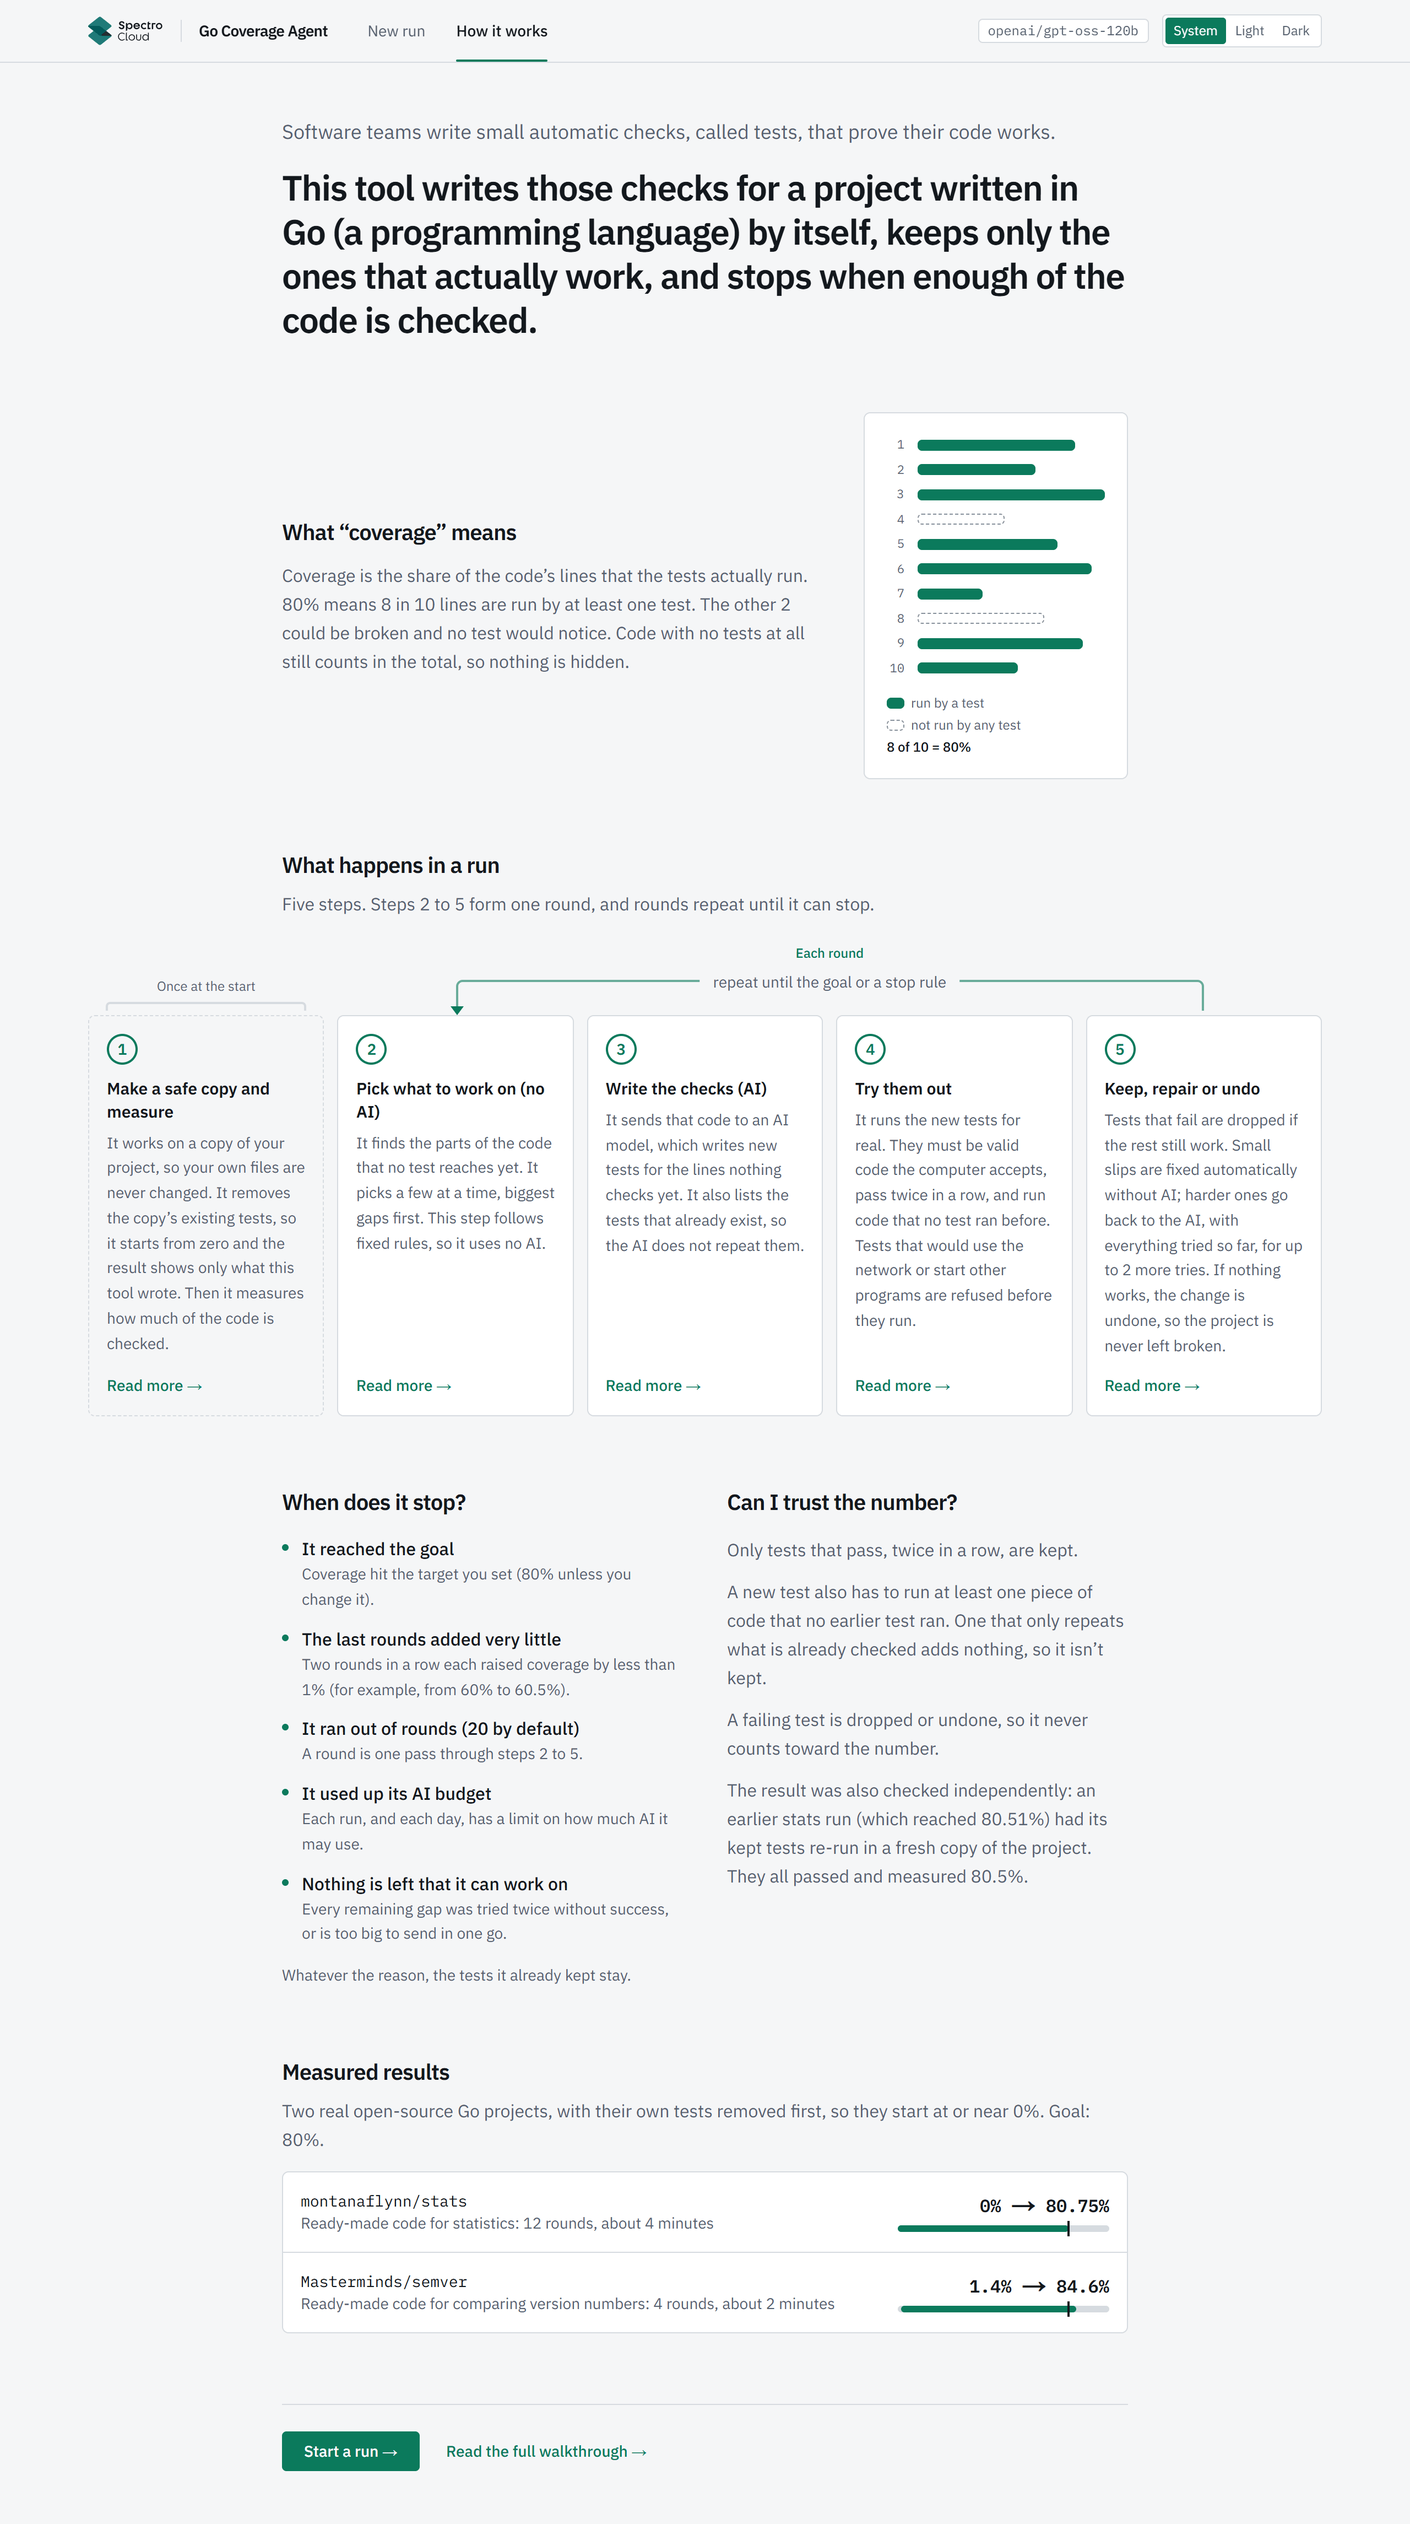
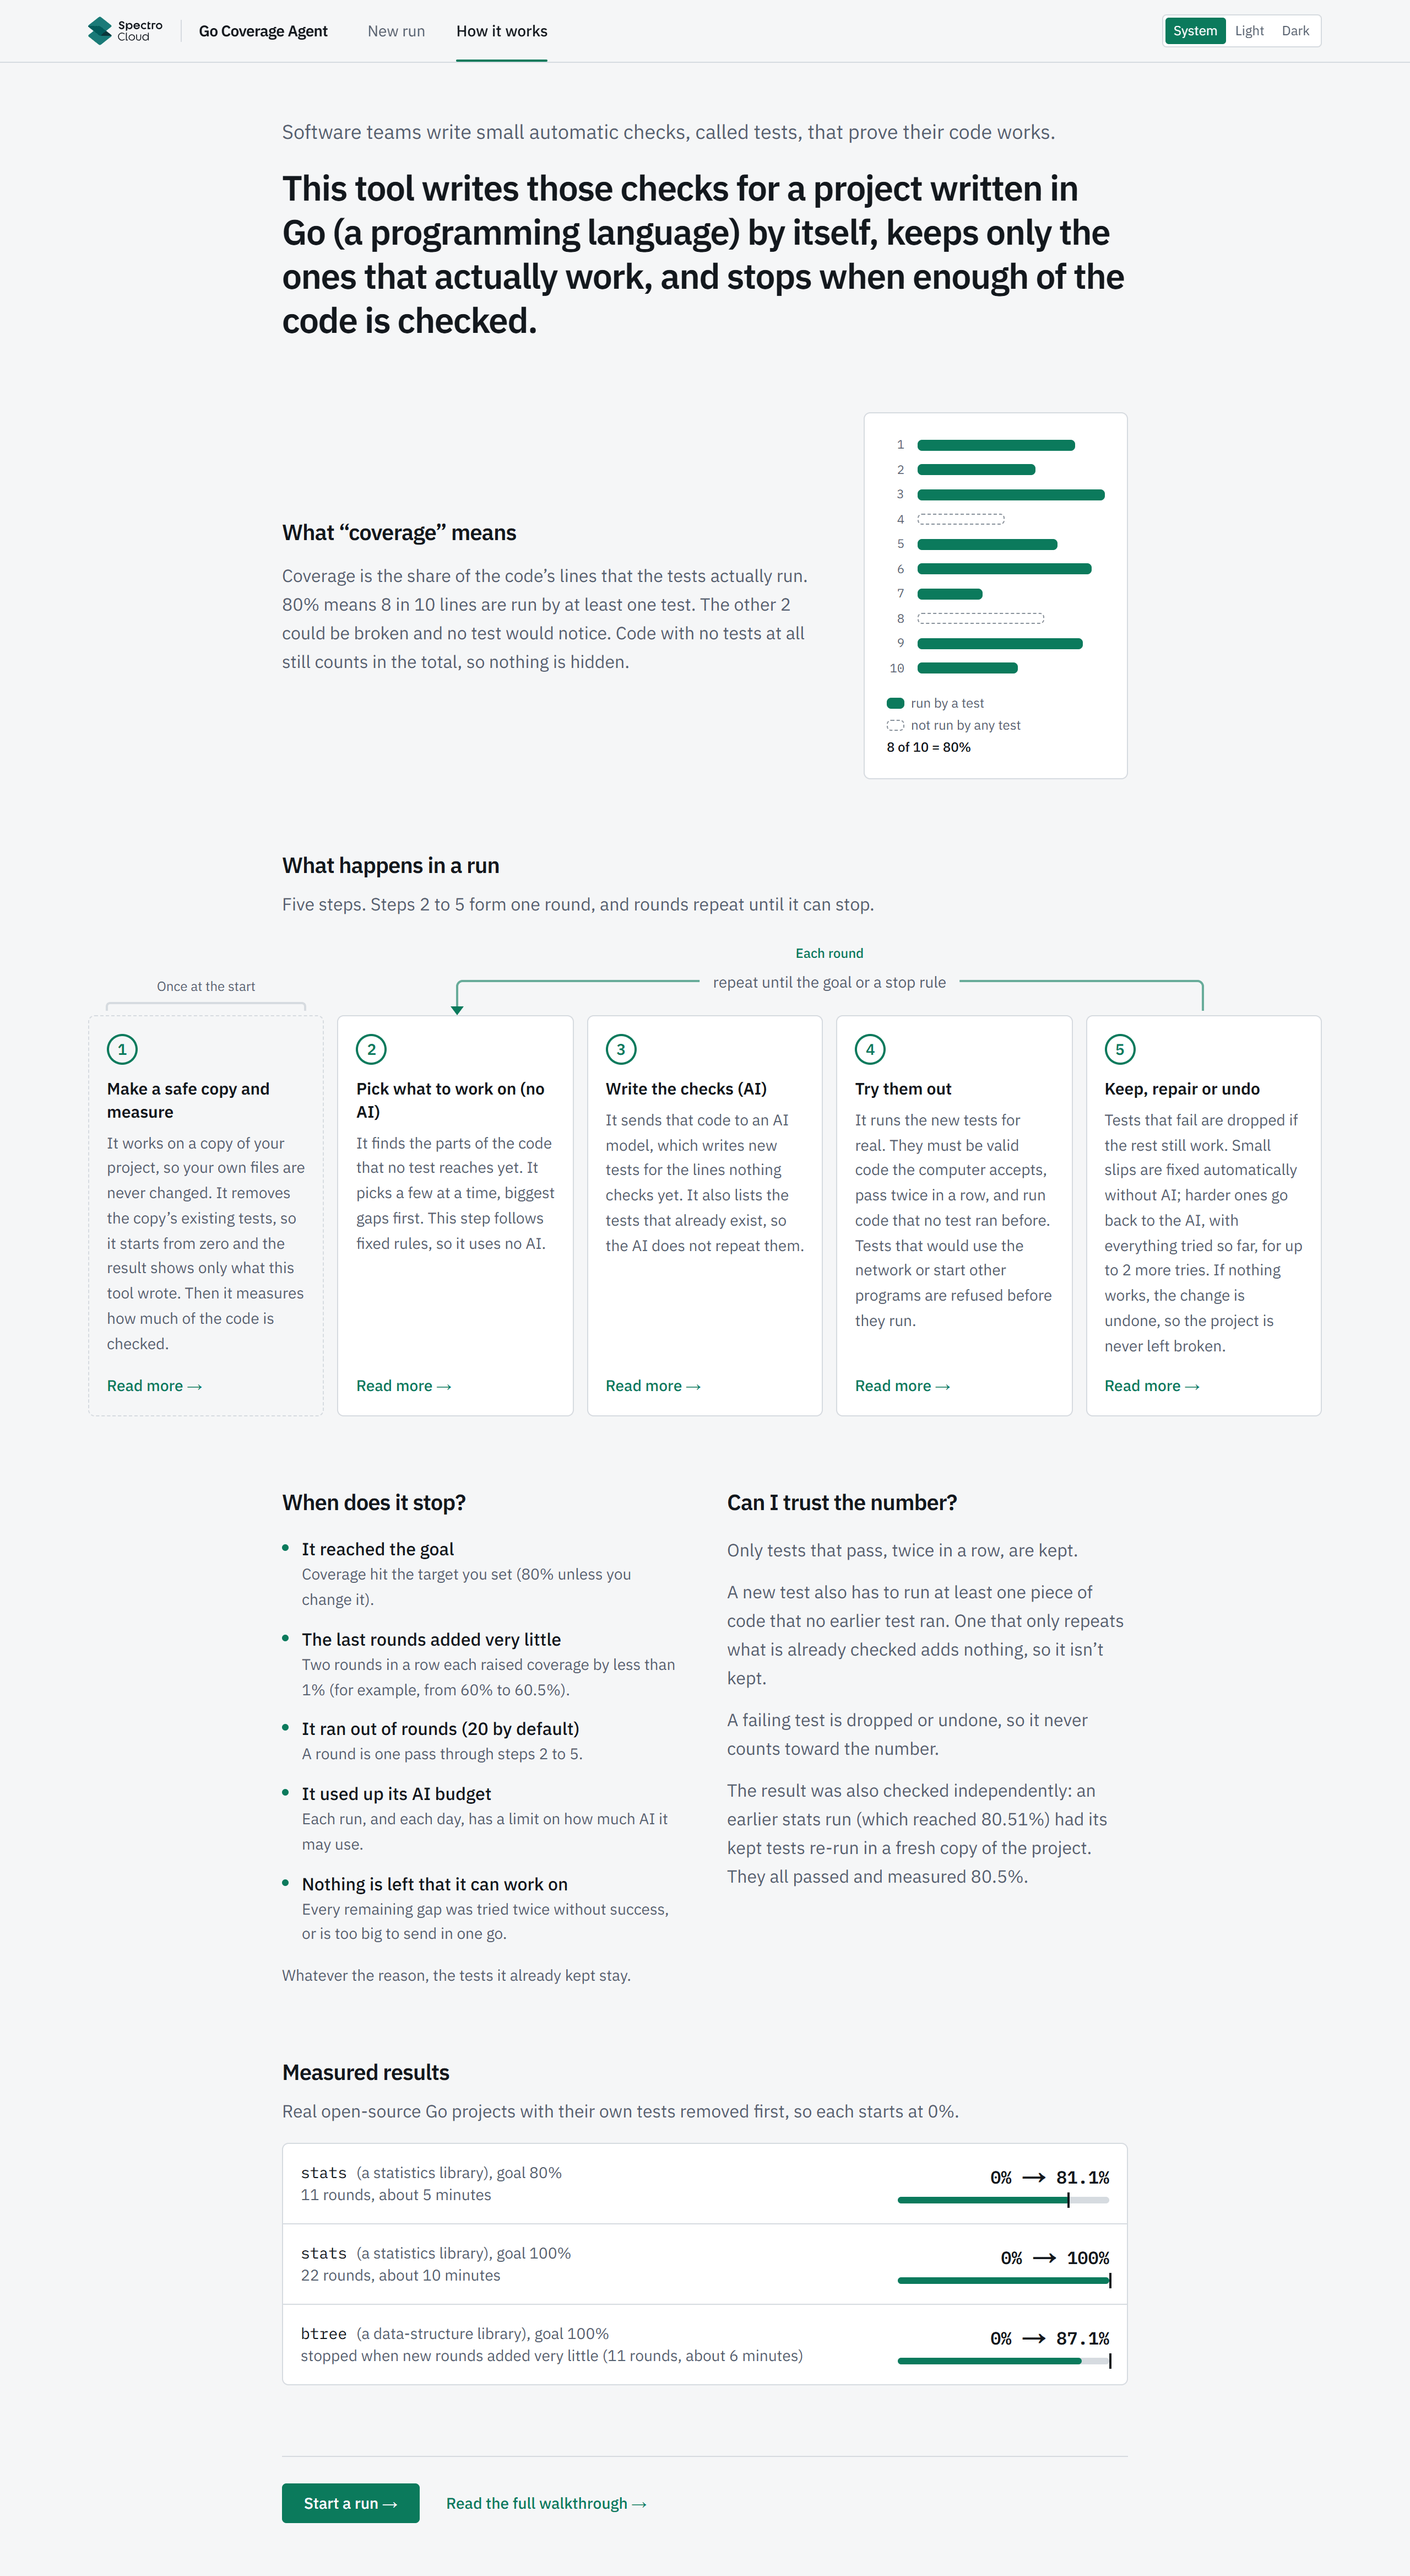
feat(frontend): measured results use runs that started at 0%
How it works and Walkthrough now show stats (goal 80% and 100%) and btree,
all from 0%; the semver 1.4% baseline (init() statements) is explained.
Screenshots and README updated.

diff --git a/frontend/src/app/walkthrough/page.tsx b/frontend/src/app/walkthrough/page.tsx
@@ -186,9 +186,10 @@ const STOP_RULES = [
 ];
 
 const MEASURED = [
-  { repo: "montanaflynn/stats", job: "26598ee5c57b", cov: "0.0% → 80.75%", rounds: 12, time: "248 s", tokens: "182,494", kept: "34 / 1" },
-  { repo: "montanaflynn/stats", job: "89eb53b5907e", cov: "0.0% → 80.51%", rounds: 15, time: "287 s", tokens: "184,926", kept: "41 / 4" },
-  { repo: "Masterminds/semver", job: "736baa413b5d", cov: "1.4% → 84.6%", rounds: 4, time: "114 s", tokens: "82,606", kept: "8 / 0" },
+  { repo: "montanaflynn/stats, goal 80%", job: "e2de1ca387cb", cov: "0.0% → 81.07%", rounds: 11, time: "310 s", tokens: "175,023", kept: "31 / 0" },
+  { repo: "montanaflynn/stats, goal 100%", job: "0e1f8bf7442a", cov: "0.0% → 100.0%", rounds: 22, time: "612 s", tokens: "403,322", kept: "64 / 1" },
+  { repo: "google/btree, goal 100%", job: "80a576a4d3ad", cov: "0.0% → 87.09%", rounds: 11, time: "350 s", tokens: "306,562", kept: "6 / 5" },
+  { repo: "montanaflynn/stats, goal 80%", job: "89eb53b5907e", cov: "0.0% → 80.51%", rounds: 15, time: "287 s", tokens: "184,926", kept: "41 / 4" },
 ];
 
 const GLOSSARY: { term: string; def: ReactNode }[] = [
@@ -381,7 +382,7 @@ gohelper symbols .  → [{"name": "EmptyInputErr", "kind": "var", "file": "error
 {"seq": 8, "type": "candidate_accepted",  "data": {"index": 1, "file": "load.go", "test_file": "load_test.go",
                                                   "tests": ["TestLoadRawData"], "percent": 3.69, "gain": 3.69}}`}</Pre>
           <H3>Measured results</H3>
-          <p>Developer-plan Groq key, target 80%, default options, each project’s own tests deleted first.</p>
+          <p>Developer-plan Groq key, default options, each project’s own tests deleted first, so every run starts at 0.0%. The goal is in the first column. The btree run stopped with <C>marginal_gains</C>: the last 2 rounds each added less than 0.5 percentage points. The last row is the run whose tests were re-checked below.</p>
           <div className="overflow-x-auto">
             <table className="w-full min-w-[34rem] text-left text-sm">
               <thead className="text-xs text-muted">
@@ -409,6 +410,7 @@ gohelper symbols .  → [{"name": "EmptyInputErr", "kind": "var", "file": "error
             </table>
           </div>
           <p>The tests from run 89eb53b5907e were copied into a fresh clone of stats with its tests deleted; <C>go vet</C> was clean, every test passed, and plain Go measured 80.5%. An earlier run on a free-trial key (8K tokens per minute) reached 69.0% in about 28 minutes, mostly waiting on rate limits.</p>
+          <p>Why the semver sample starts at 1.4% and not 0%: a package’s <C>init()</C> functions run when the package loads, so their statements (version.go:83 and constraints.go:206) count as covered before any test exists. That is true and measured, not an error. For this reason the results above use runs that started at exactly 0%.</p>
           <Where code={["backend/app/engine/run.py", "frontend/src/app/jobs/[id]/page.tsx", "README.md"]} events={["job_completed"]} />
         </Section>
 

diff --git a/frontend/src/app/how-it-works/page.tsx b/frontend/src/app/how-it-works/page.tsx
@@ -45,8 +45,9 @@ const STOPS = [
 ];
 
 const RESULTS = [
-  { id: "stats", repo: "montanaflynn/stats", what: "Ready-made code for statistics", from: 0, to: 80.75, label: "0% → 80.75%", rounds: 12, time: "about 4 minutes" },
-  { id: "semver", repo: "Masterminds/semver", what: "Ready-made code for comparing version numbers", from: 1.43, to: 84.59, label: "1.4% → 84.6%", rounds: 4, time: "about 2 minutes" },
+  { id: "stats", name: "stats", what: "a statistics library", goal: 80, from: 0, to: 81.07, label: "0% → 81.1%", detail: "11 rounds, about 5 minutes" },
+  { id: "stats-100", name: "stats", what: "a statistics library", goal: 100, from: 0, to: 100, label: "0% → 100%", detail: "22 rounds, about 10 minutes" },
+  { id: "btree", name: "btree", what: "a data-structure library", goal: 100, from: 0, to: 87.09, label: "0% → 87.1%", detail: "stopped when new rounds added very little (11 rounds, about 6 minutes)" },
 ];
 
 // Ten "lines of code", eight of them run by a test. Widths vary so it reads as code, not a progress bar.
@@ -201,20 +202,20 @@ export default function HowItWorksPage() {
       <section aria-labelledby="result-heading" className="space-y-4">
         <div className="space-y-2">
           <h2 id="result-heading" className={h2}>Measured results</h2>
-          <p className="leading-relaxed text-muted">Two real open-source Go projects, with their own tests removed first, so they start at or near 0%. Goal: 80%.</p>
+          <p className="leading-relaxed text-muted">Real open-source Go projects with their own tests removed first, so each starts at 0%.</p>
         </div>
         <ul className="divide-y divide-border rounded-md border border-border bg-surface">
           {RESULTS.map((r) => (
             <li key={r.id} data-testid={`result-${r.id}`} className="grid gap-x-6 gap-y-2 p-4 sm:grid-cols-[minmax(0,1fr)_12rem] sm:items-center">
               <div className="min-w-0">
-                <p className="font-mono text-sm">{r.repo}</p>
-                <p className="text-sm text-muted">{r.what}: {r.rounds} rounds, {r.time}</p>
+                <p className="font-mono text-sm">{r.name} <span className="font-sans text-muted">({r.what}), goal {r.goal}%</span></p>
+                <p className="text-sm text-muted">{r.detail}</p>
               </div>
               <div className="space-y-1.5">
                 <p className="font-mono font-semibold tabular-nums sm:text-right">{r.label}</p>
                 <div aria-hidden className="relative h-1.5 rounded-full bg-border">
                   <span className="absolute inset-y-0 rounded-full bg-accent" style={{ left: `${r.from}%`, width: `${r.to - r.from}%` }} />
-                  <span className="absolute -inset-y-1 left-[80%] w-0.5 bg-text" title="80% goal" />
+                  <span className="absolute -inset-y-1 w-0.5 bg-text" style={{ left: `${r.goal}%` }} title={`${r.goal}% goal`} />
                 </div>
               </div>
             </li>

diff --git a/frontend/src/app/how-it-works/page.test.tsx b/frontend/src/app/how-it-works/page.test.tsx
@@ -85,13 +85,19 @@ describe("HowItWorksPage", () => {
     expect(screen.getByText(/at least one piece of code that no earlier test ran/)).toBeInTheDocument();
     expect(screen.getByText(/re-run in a fresh copy of the project/)).toBeInTheDocument();
     const stats = screen.getByTestId("result-stats");
-    expect(stats).toHaveTextContent("0% → 80.75%");
-    expect(stats).toHaveTextContent("12 rounds");
-    expect(stats).toHaveTextContent("about 4 minutes");
-    const semver = screen.getByTestId("result-semver");
-    expect(semver).toHaveTextContent("1.4% → 84.6%");
-    expect(semver).toHaveTextContent("4 rounds");
-    expect(semver).toHaveTextContent("about 2 minutes");
+    expect(stats).toHaveTextContent("goal 80%");
+    expect(stats).toHaveTextContent("0% → 81.1%");
+    expect(stats).toHaveTextContent("11 rounds, about 5 minutes");
+    const stats100 = screen.getByTestId("result-stats-100");
+    expect(stats100).toHaveTextContent("goal 100%");
+    expect(stats100).toHaveTextContent("0% → 100%");
+    expect(stats100).toHaveTextContent("22 rounds, about 10 minutes");
+    const btree = screen.getByTestId("result-btree");
+    expect(btree).toHaveTextContent("0% → 87.1%");
+    expect(btree).toHaveTextContent("stopped when new rounds added very little");
+    expect(screen.getByText(/each starts at 0%/)).toBeInTheDocument();
+    expect(screen.queryByText(/at or near 0%/)).toBeNull();
+    expect(screen.queryByText(/semver/i)).toBeNull();
   });
 
   it("ends with Start a run and an internal link to the full walkthrough, and no external artifact link", () => {

diff --git a/frontend/src/app/walkthrough/page.test.tsx b/frontend/src/app/walkthrough/page.test.tsx
@@ -78,7 +78,7 @@ describe("WalkthroughPage", () => {
   it("shows the outputs, an event example, the coverage profile line and the safety notes", () => {
     render(<WalkthroughPage />);
     const results = section("results");
-    for (const t of ["./output/<job id>/", "events.jsonl", "report.json", "tests/", "candidate_accepted", "80.75%", "84.6%"]) {
+    for (const t of ["./output/<job id>/", "events.jsonl", "report.json", "tests/", "candidate_accepted", "81.07%", "100.0%", "87.09%", "e2de1ca387cb", "0e1f8bf7442a", "80a576a4d3ad", "init()", "1.4%"]) {
       expect(results).toHaveTextContent(t);
     }
     const coverage = section("coverage");

diff --git a/README.md b/README.md
@@ -128,6 +128,8 @@ Developer-plan key, 2026-10-09, target 80%, defaults. Writer at `medium` reasoni
 | `736baa413b5d` | after the Fixer-history fixes, Fixer `medium` | 1.4% → **84.6%**, target reached | 4 / 114 s | 8 / 0 | 82.6K |
 | `d247037efdb2` | same, Fixer `low` | 1.4% → **84.4%**, target reached | 3 / 88 s | 7 / 0 | 69.2K |
 
+The 1.4% baseline is not an error: semver's two `init()` functions (`version.go:83`, `constraints.go:206`) run when the package loads, so their statements count as covered before any test exists. The "How it works" and Walkthrough pages therefore report runs that started at exactly 0%.
+
 Each of the last two runs needed only one LLM fix, and both fixes were accepted (12.8 s at `medium`, 9.6 s at `low`), so the two runs are too close to rank the Fixer's effort. A Fixer call at `high` was still waiting after about 114 s, which is why both roles default to `medium`.
 
 ### Cap of 5 functions per target (2026-10-09)
@@ -187,7 +189,7 @@ I ran the system end to end, spotted these problems, and decided the fixes. Clau
 <tr>
 <td valign="top">
 <a href="docs/screenshots/gallery-howitworks.png"><img src="docs/screenshots/gallery-howitworks.png" width="100%" alt="How it works page: the five steps of a run side by side, each with a Read more link, with steps 2 to 5 marked as one round and an arrow from step 5 back to step 2"></a>
-<br><b>How it works page</b><br>A two-minute, plain-language explanation for non-developers: what tests and coverage are (8 of 10 lines = 80%), the five steps of a run side by side (step 1 once at the start, steps 2 to 5 as one round with an arrow from step 5 back to step 2), each with a Read more link to its Walkthrough section, when it stops, why the number can be trusted, and compact measured results for <code>montanaflynn/stats</code> (0% to 80.75% in 12 rounds, about 4 minutes) and <code>Masterminds/semver</code> (1.4% to 84.6% in 4 rounds, about 2 minutes).
+<br><b>How it works page</b><br>A two-minute, plain-language explanation for non-developers: what tests and coverage are (8 of 10 lines = 80%), the five steps of a run side by side (step 1 once at the start, steps 2 to 5 as one round with an arrow from step 5 back to step 2), each with a Read more link to its Walkthrough section, when it stops, why the number can be trusted, and compact measured results for runs that started at 0%: <code>montanaflynn/stats</code> with an 80% goal (0% to 81.1% in 11 rounds, about 5 minutes) and a 100% goal (0% to 100% in 22 rounds, about 10 minutes), and <code>google/btree</code> with a 100% goal (0% to 87.1%, stopped when new rounds added very little).
 </td>
 <td valign="top">
 <a href="docs/screenshots/gallery-howitworks-mobile.png"><img src="docs/screenshots/gallery-howitworks-mobile.png" width="100%" alt="How it works page on a phone-width screen"></a>
